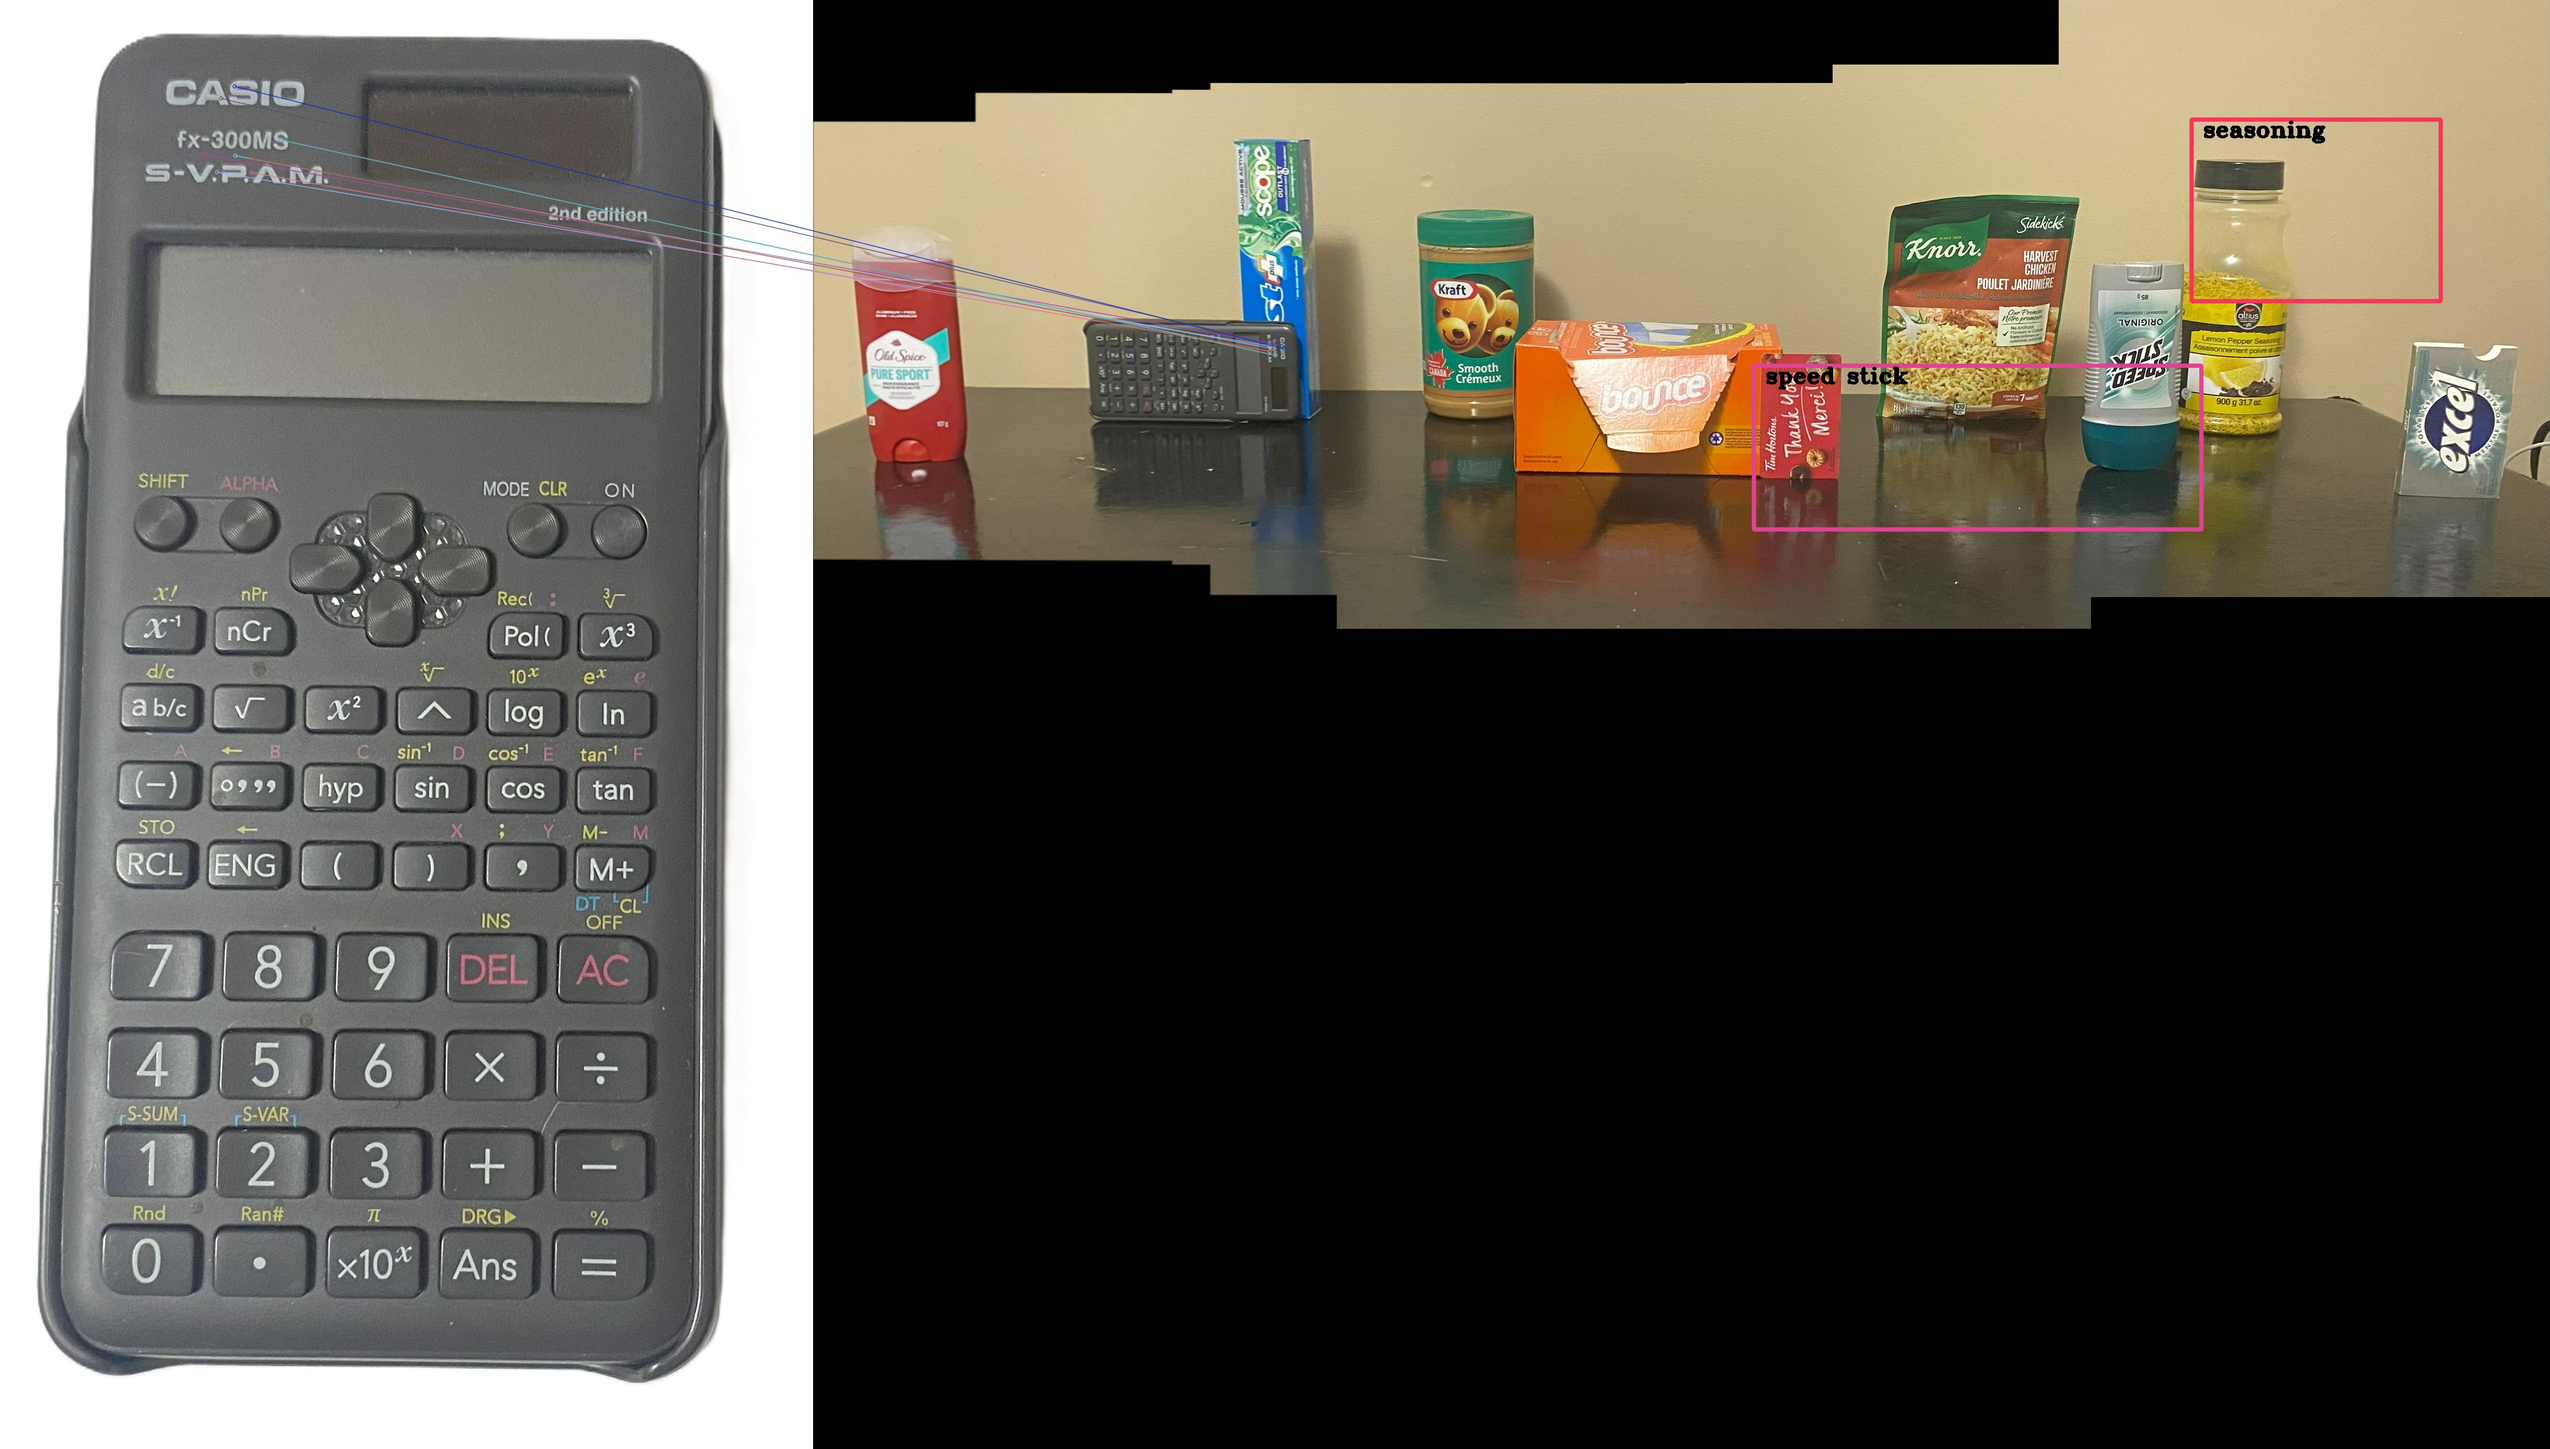
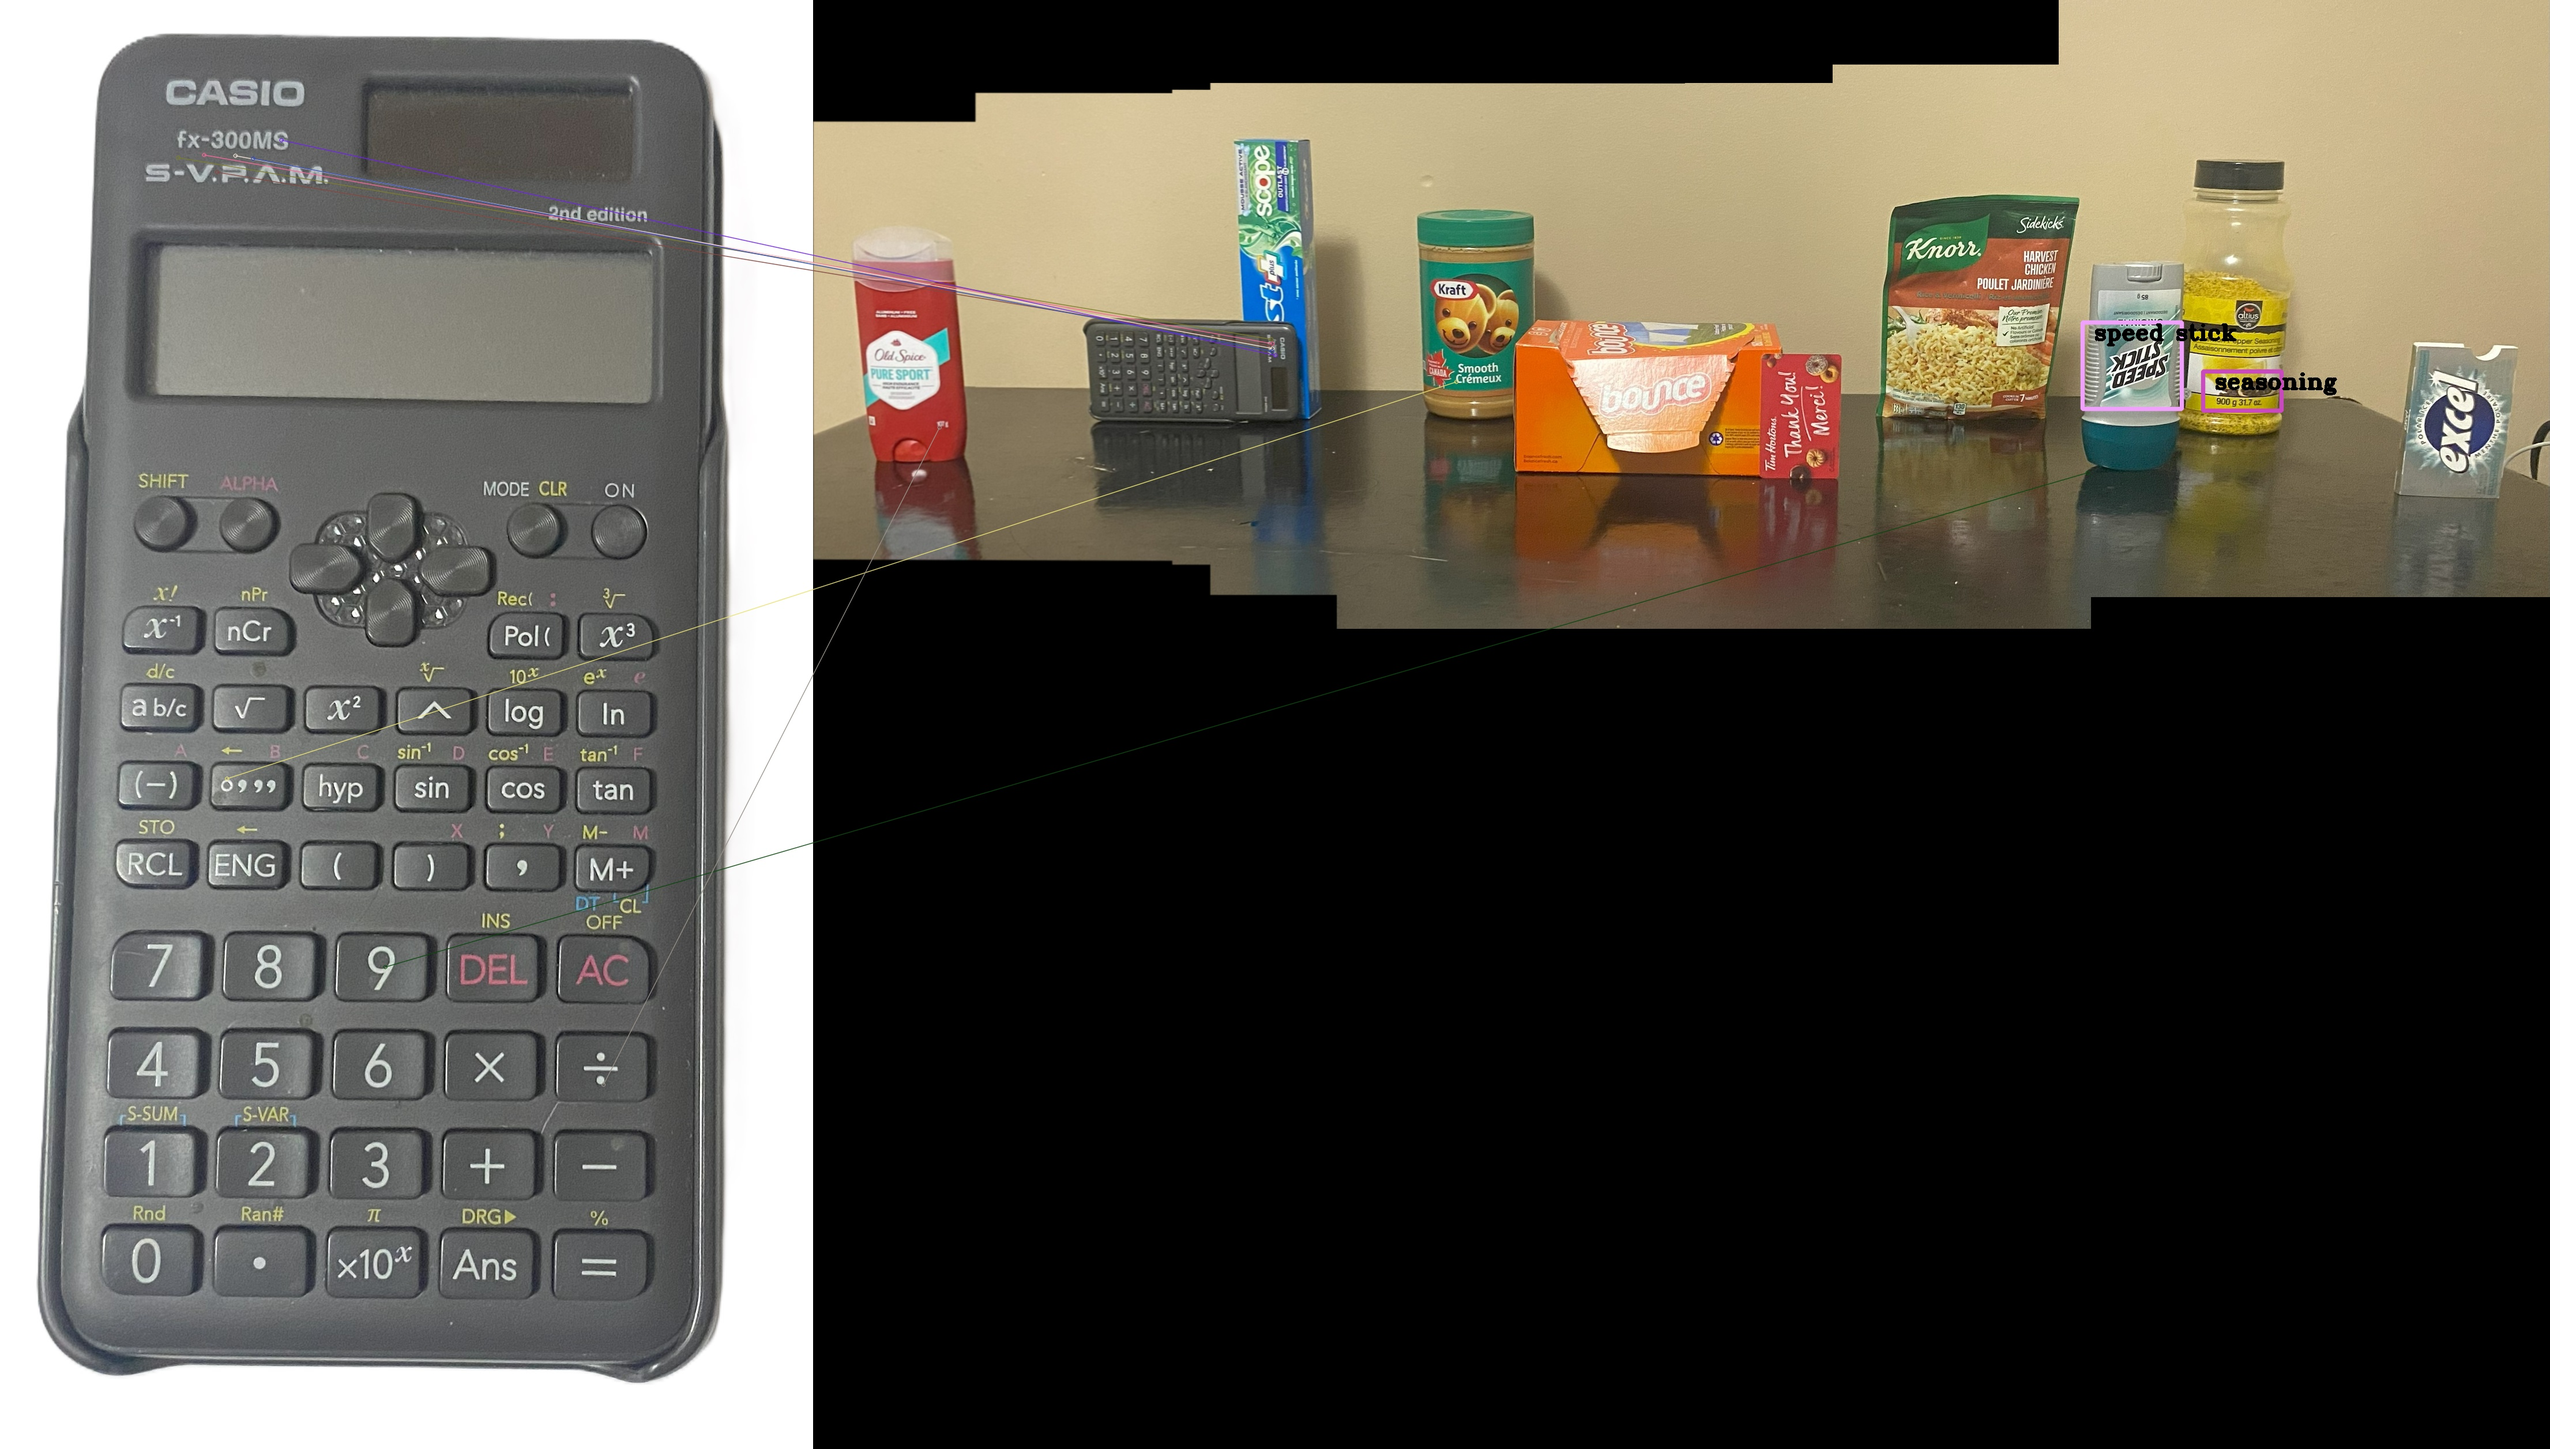
k

diff --git a/Code/Task3.py b/Code/Task3.py
@@ -12,14 +12,13 @@ import cv2 as cv
 import numpy as np
 import os
 from random import randint
+from sklearn.cluster import DBSCAN
 
 # Constants
 DIRECTORY = "./Panorama"
 OBJECTS_DIRECTORY = "./Objects"
 
-kernel = np.array([[0, -1, 0],
-                   [-1, 5, -1],
-                   [0, -1, 0]])
+kernel = np.array([[0, -1, 0], [-1, 5, -1], [0, -1, 0]])
 
 
 object_names = [
@@ -34,6 +33,25 @@ object_names = [
     "old spice",
     "gift card",
 ]
+
+
+def calculate_bounding_box(cluster_points, object_name, image_shape):
+    padding_ratio = 0.4
+    x_min, y_min = np.min(cluster_points, axis=0).astype(int)
+    x_max, y_max = np.max(cluster_points, axis=0).astype(int)
+
+    box_width = x_max - x_min
+    box_height = y_max - y_min
+
+    padding_x = int(box_width * padding_ratio)
+    padding_y = int(box_height * padding_ratio)
+
+    x_min = max(0, x_min - padding_x)
+    y_min = max(0, y_min - padding_y)
+    x_max = min(image_shape[1], x_max + padding_x)
+    y_max = min(image_shape[0], y_max + padding_y)
+
+    return x_min, y_min, x_max, y_max
 
 
 def detect_and_describe(image):
@@ -184,7 +202,6 @@ def stitch_images(img1, img2, homography):
     return stitched_image
 
 
-
 if __name__ == "__main__":
     panorama_input = []
     for input_image in sorted(os.listdir(DIRECTORY)):
@@ -229,7 +246,7 @@ if __name__ == "__main__":
     pano_kp, pano_des = detect_and_describe(stitched_image)
     for i, objectImageFile in enumerate(sorted(os.listdir(OBJECTS_DIRECTORY))):
         objectImage = cv.imread(os.path.join(OBJECTS_DIRECTORY, objectImageFile))
-        obj_kp, obj_des = detect_and_describe(cv.GaussianBlur(objectImage,(11, 11), 4))
+        obj_kp, obj_des = detect_and_describe(objectImage)
 
         matches = match_keypoints(obj_des, pano_des)
 
@@ -238,20 +255,54 @@ if __name__ == "__main__":
         draw_matches(i, objectImage, stitched_image, obj_kp, pano_kp, matches)
 
         h, w = stitched_image.shape[:2]
-        pts = np.float32([[0, 0], [0, h - 1], [w - 1, h - 1], [w - 1, 0]]).reshape(-1, 1, 2)
+        pts = np.float32([[0, 0], [0, h - 1], [w - 1, h - 1], [w - 1, 0]]).reshape(
+            -1, 1, 2
+        )
         dst = cv.perspectiveTransform(pts, homography).reshape(-1, 2)
 
-        
+        # Extract coordinates of matches for clustering
+        matches_coords = []
+        for match in matches:
+            # Get the keypoints from both images
+            obj_pt = obj_kp[match.queryIdx].pt
+            pano_pt = pano_kp[match.trainIdx].pt
+            matches_coords.append(
+                pano_pt
+            )  # Use points from the panorama (stitched image)
 
-        x, y, w, h = cv.boundingRect(np.int32(dst))
-        stitched_image = cv.rectangle(stitched_image, (x, y), (x + w, y + h), (randint(1,255),randint(1,255), randint(1,255)), 5, cv.LINE_AA)
+        matches_coords = np.array(matches_coords)
+
+        # Apply DBSCAN clustering
+        clustering = DBSCAN(eps=30, min_samples=3).fit(matches_coords)
+        labels = clustering.labels_
+
+        # Find the largest cluster
+        unique_labels = set(labels)
+        largest_cluster_id = max(
+            unique_labels, key=lambda label: list(labels).count(label)
+        )
+
+        # Extract points belonging to the largest cluster
+        cluster_points = matches_coords[labels == largest_cluster_id]
+
+        # Calculate bounding rectangle
+        x, y, w, h = calculate_bounding_box(
+            cluster_points, object_names[i], stitched_image.shape
+        )
+
+        # Draw bounding box and label on the stitched image
+        color = (randint(1, 255), randint(1, 255), randint(1, 255))
+
+        stitched_image = cv.rectangle(
+            stitched_image, (x, y), (w, h), color, 5, cv.LINE_AA
+        )
         cv.putText(
             stitched_image,
             object_names[i],
-            (x+20, y+ 30),
+            (x + 20, y + 30),
             cv.FONT_HERSHEY_TRIPLEX,
             1.25,
-            (0,0, 0),
+            (0, 0, 0),
             3,
         )
         # Match objects to the scene
